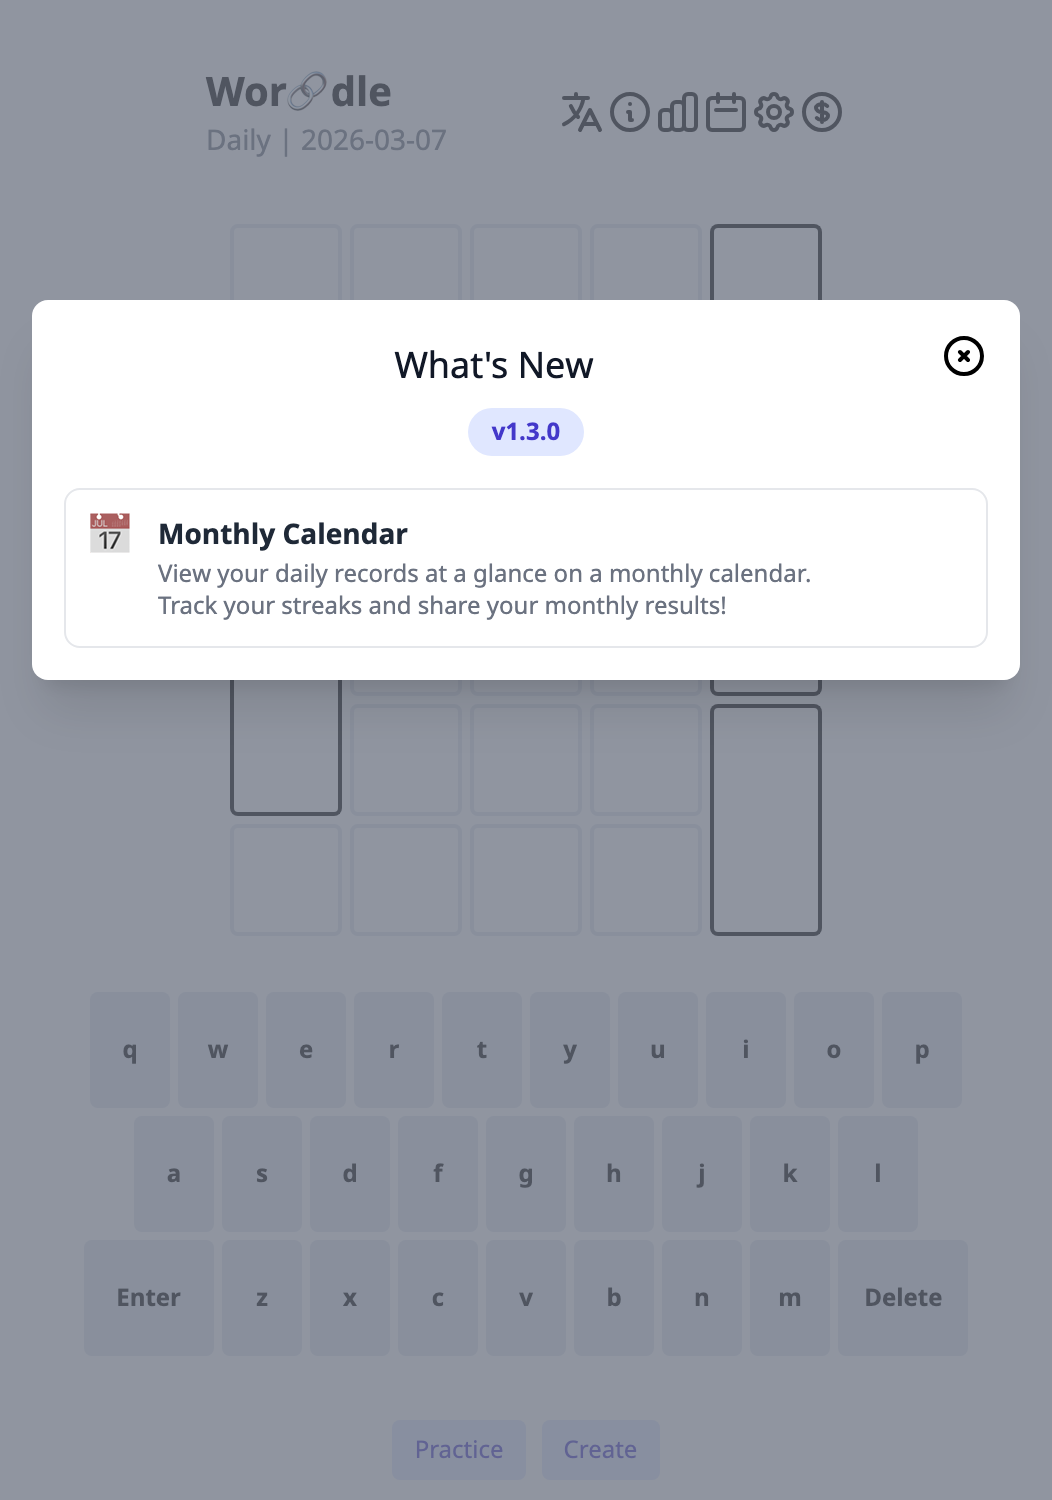
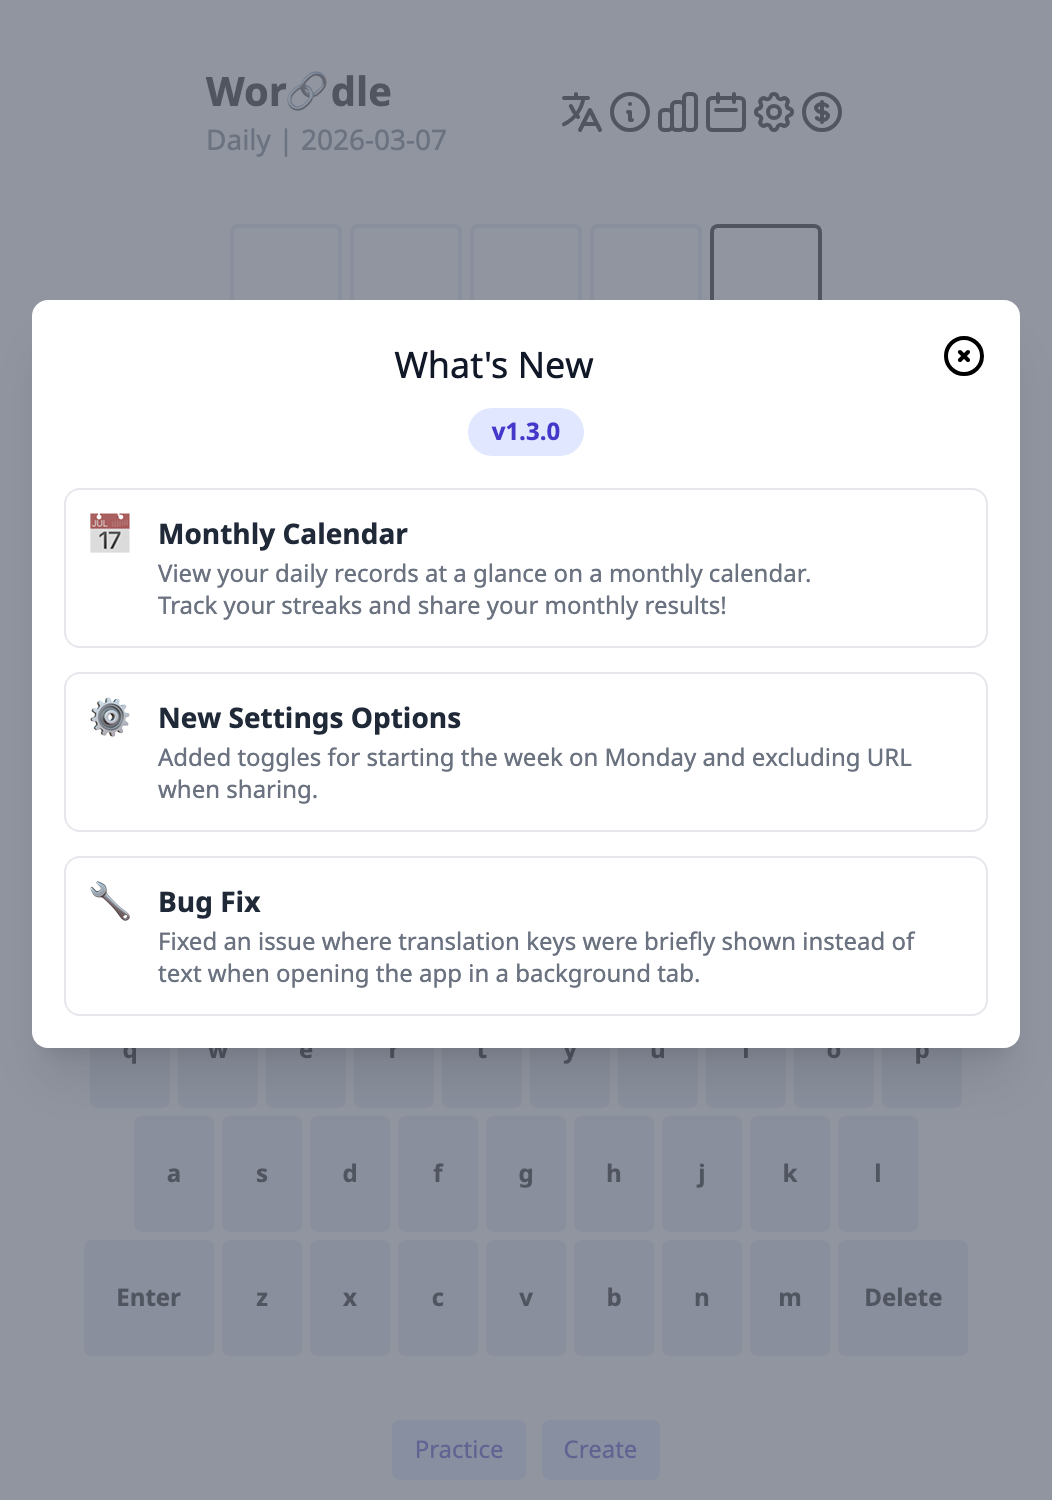
feat: What's New v1.3.0 패치노트에 Settings, 버그 수정 항목 추가
- PatchNotesModal features 배열에 Settings 옵션, i18n 버그 수정 항목 추가
- 6개 locale 번역 키 추가 (patchNote_settings_*, patchNote_i18nFix_*)
- README.md patch-note.png alt 텍스트 v1.1.0 → v1.3.0 갱신
- patch-note.png 스크린샷 재생성 (3개 항목 표시)

Changed region(s): [[0.0304, 0.4293, 0.9734, 0.7053]]

diff --git a/src/components/modals/PatchNotesModal.tsx b/src/components/modals/PatchNotesModal.tsx
@@ -20,6 +20,16 @@ const features: Feature[] = [
     titleKey: 'patchNote_calendar_title',
     descKey: 'patchNote_calendar_desc',
   },
+  {
+    icon: '\u{2699}\u{FE0F}',
+    titleKey: 'patchNote_settings_title',
+    descKey: 'patchNote_settings_desc',
+  },
+  {
+    icon: '\u{1F527}',
+    titleKey: 'patchNote_i18nFix_title',
+    descKey: 'patchNote_i18nFix_desc',
+  },
 ]
 
 export const PatchNotesModal = ({ isOpen, handleClose }: Props) => {

diff --git a/README.md b/README.md
@@ -92,7 +92,7 @@ ootzk.github.io/Wor-chain-dle
 New features are introduced through a one-time "What's New" popup on your first visit after an update.
 
 <p align="center">
-  <img src="assets/patch-note.png" alt="What's New in v1.1.0" width="300" />
+  <img src="assets/patch-note.png" alt="What's New in v1.3.0" width="300" />
 </p>
 
 ### Create & Share Custom Puzzles
